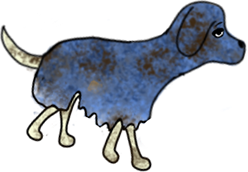
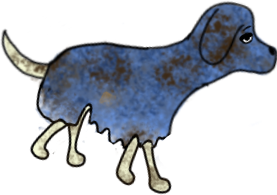
a«eh

diff --git a/index.html b/index.html
@@ -26,7 +26,7 @@
         <section id="chapitre1">
             <img class="nuage" src="/img/img-elements_visuels/nuage.png" alt="nuage">
             <img class="tombeau" src="/img/img-elements_visuels/tombe.png" alt="tombeau">
-            <img class="personnage-fatigue" src="img/img_personnages/personnage.png" alt="chien">
+            <img class="personnage-fatigue" src="img/img_personnages/personnage_fatigue.png" alt="chien">
         </section>
 
         <section id="troue">

diff --git a/css/styles.css b/css/styles.css
@@ -125,6 +125,7 @@ main{
 .personnage_fatigue {
     position: absolute;
     left: 0px;
+    
     bottom: 0;
 }
 
